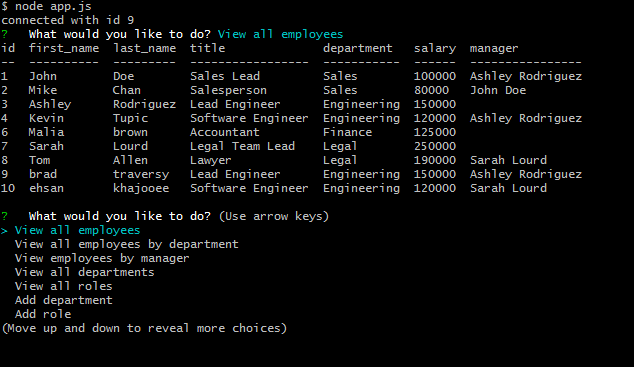
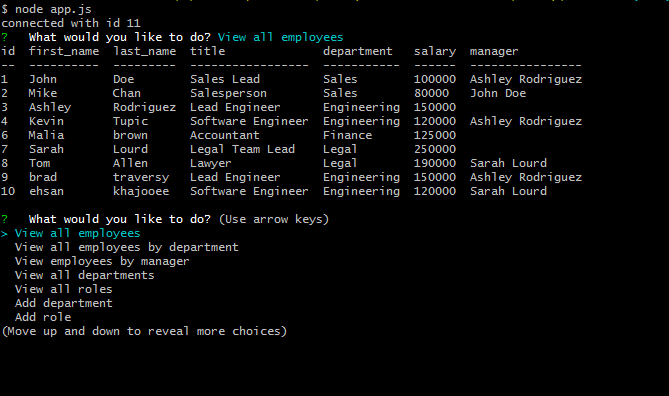
Work on the image display on README.md.

Changed region(s): [[0.0, 0.0, 0.929, 0.9292]]

diff --git a/README.md b/README.md
@@ -4,7 +4,7 @@ In this project I built a **C**ontent **M**anagment
 **S**ystem for managing a company's employees using node, inquirer, and MySQL. I used the inquirer npm which is a CLI interface for nodejs and the MySQL module which is a MySQL driver to connect to the MySQL database. The MySQL database consists of department, role and employee tables. A command-line interface was built to view, add, and update employees, roles and their department. Also the app includes features like filtering the view of employees by department and manager. The Employee Tracker methods are all promised based.
 
 Below is the snapshot of the project.
-![Database Schema](Assets/employeeTracker.png)
+![Employee Tracker App](Assets/employeeTracker.PNG)
 
 ## Instructions
 
